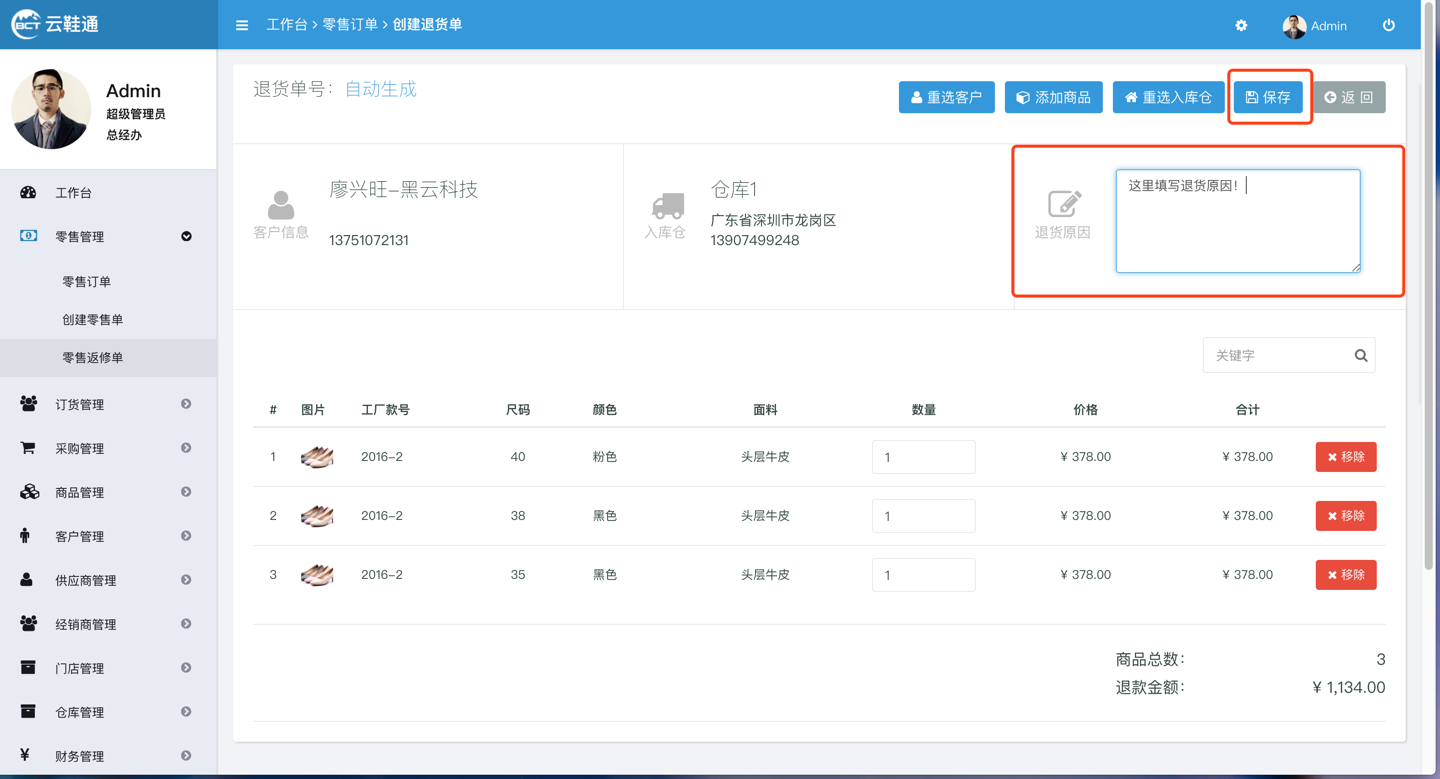
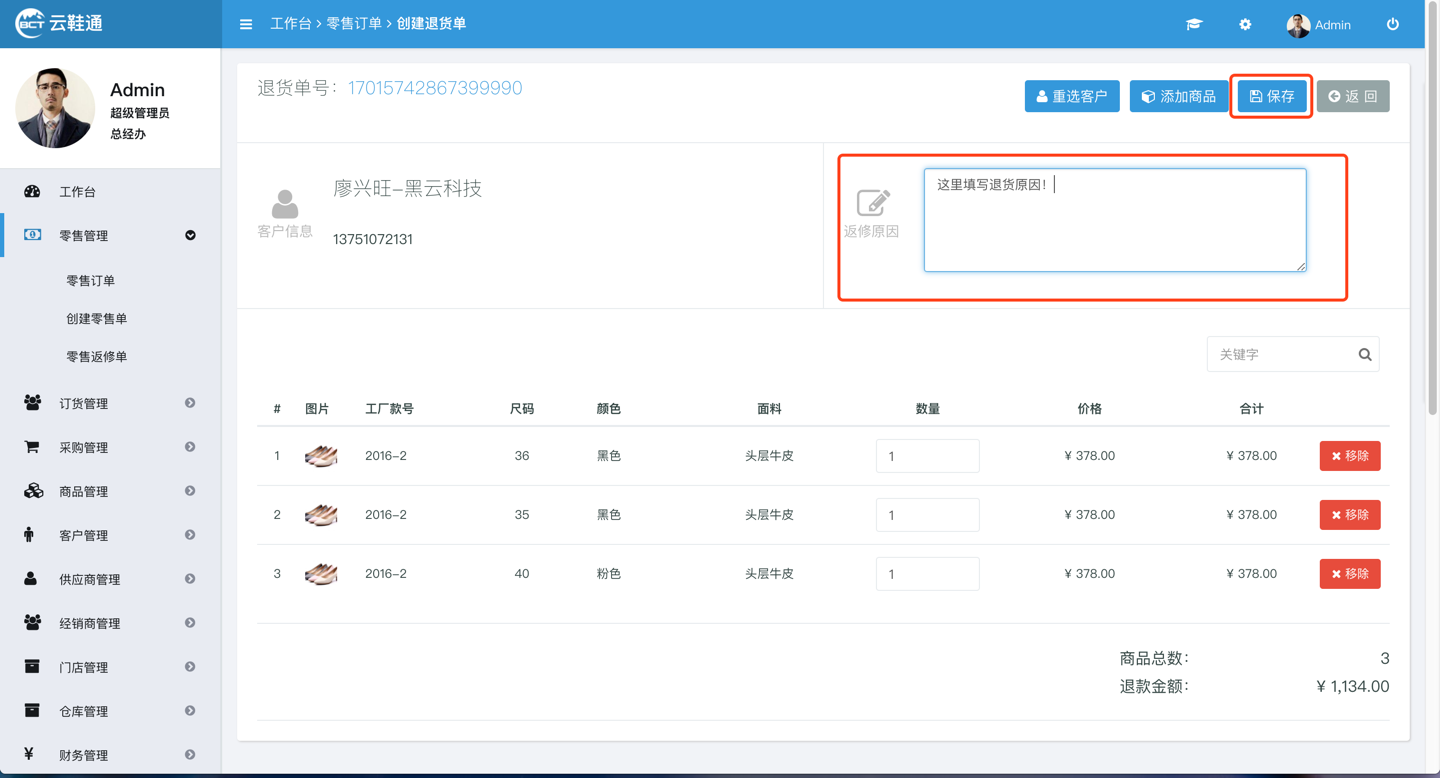
Updates shang-pin-guan-li/ling-shou/fan-xiu-ff08-tui-huo-ff09-liu-cheng.md
Auto commit by GitBook Editor

diff --git a/shang-pin-guan-li/ling-shou/fan-xiu-ff08-tui-huo-ff09-liu-cheng.md b/shang-pin-guan-li/ling-shou/fan-xiu-ff08-tui-huo-ff09-liu-cheng.md
@@ -16,10 +16,6 @@
 
 ———————————————————————————
 
-点击【选择入库仓】，为返修单指定商品入库的仓库。![](/assets/cjlsfxd-3.png)
-
-———————————————————————————
-
 填写退货原因后，点击【保存】![](/assets/cjlsfxd-4.png)
 
 保存后，系统自动跳转到返修单详情，确认无误后，点击【审核通过】—【确认】如下图：![](/assets/cjlsfxd-5.png)
